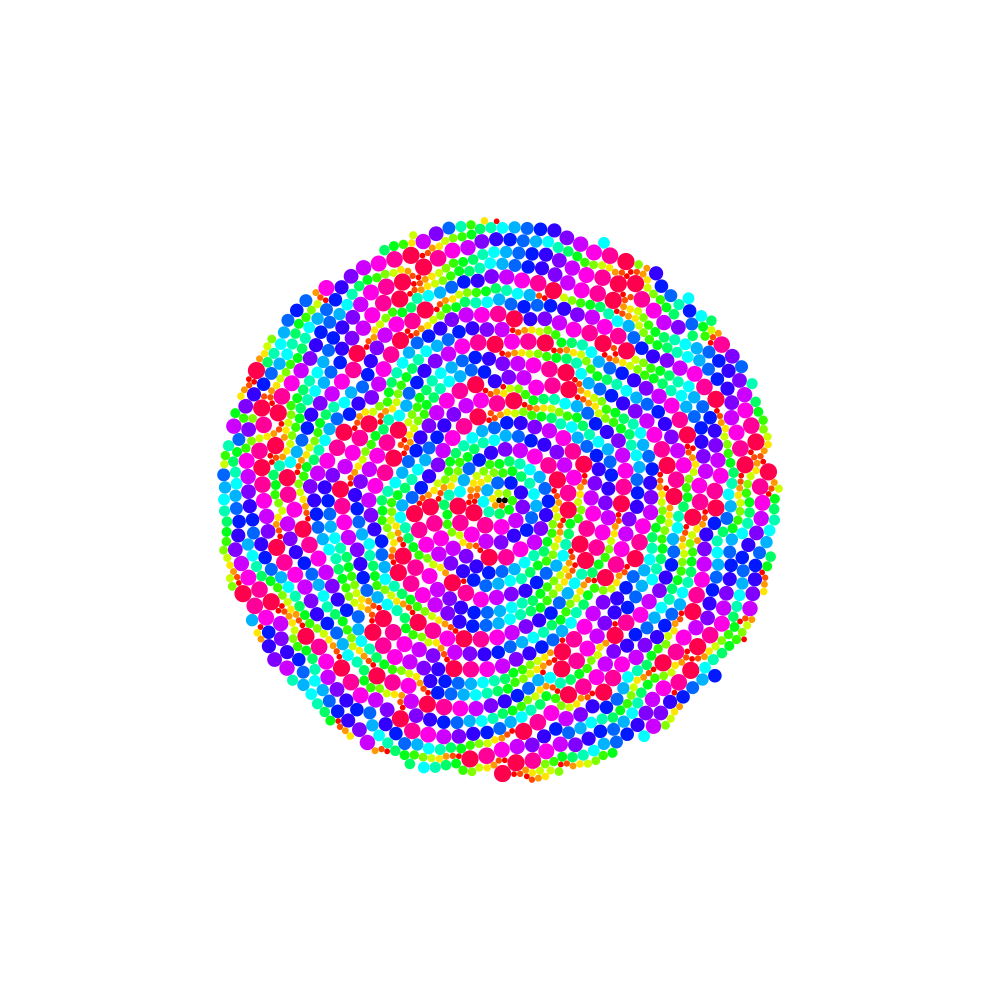
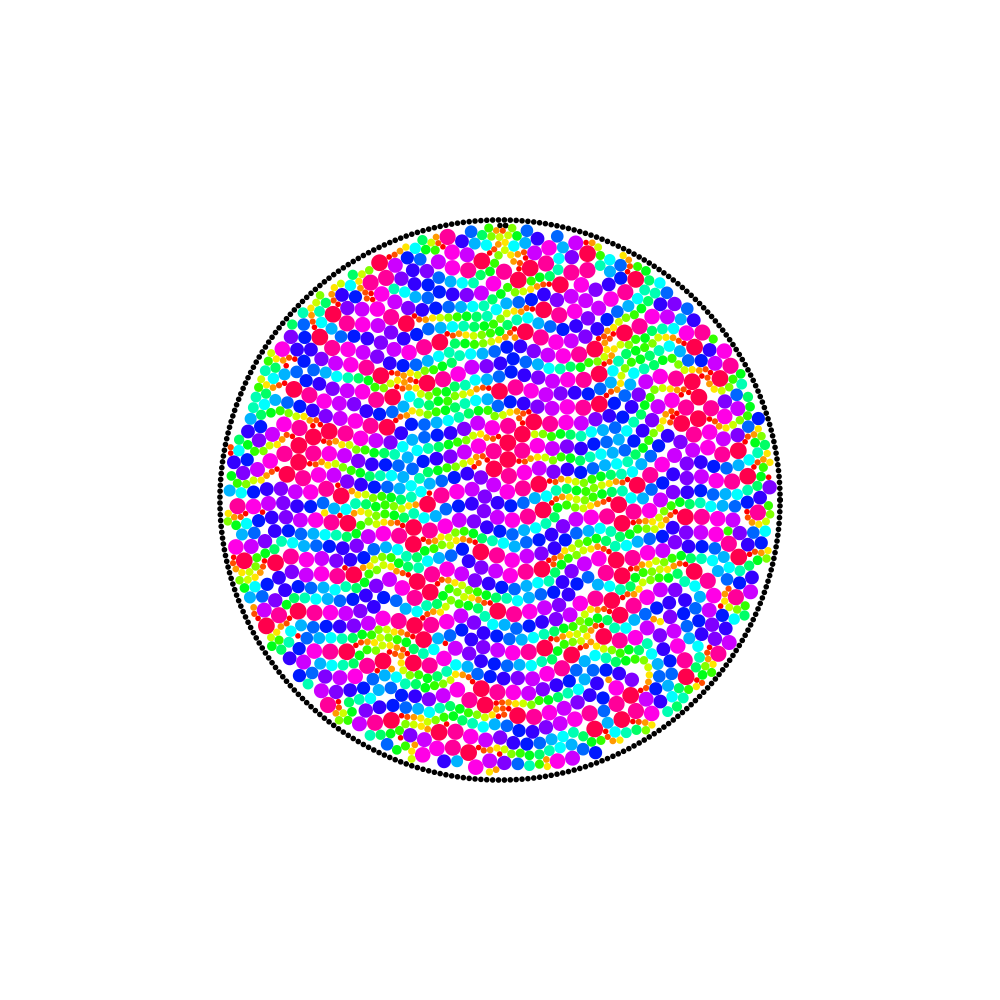
Update baoboundaries with new boundary management

Changed region(s): [[0.217, 0.217, 0.806, 0.806]]

diff --git a/examples/main_baoboundaries.py b/examples/main_baoboundaries.py
@@ -6,12 +6,13 @@ canvas = Canvas()
 def fdraw(node,index,style):
     canvas.draw(node,style)
 
-boundaries = [Circle(p,1.0) for p in C0.scale(100.0).samples(usamples(300))]
+boundaries = [Circle(p,1.0) for p in Circle(Point(0.0,98.0),100.0).samples(usamples(300))]
 inodes     = baonodes0()
 baopattern = BaoPattern().fdraw(fdraw).radiuspattern(R(1.0,3.0).samples(20)).colorpattern([Color.hue2color(float(index)/20.0) for index in range(20)])
 
 canvas.draw(inodes)
+canvas.draw(boundaries)
 
-packing = CirclePackingBao.iter(boundaries,inodes,baopattern,3000)
+packing = CirclePackingBao.iter(boundaries,inodes,baopattern,5000)
 
 canvas.save("baoboundaries.png")
